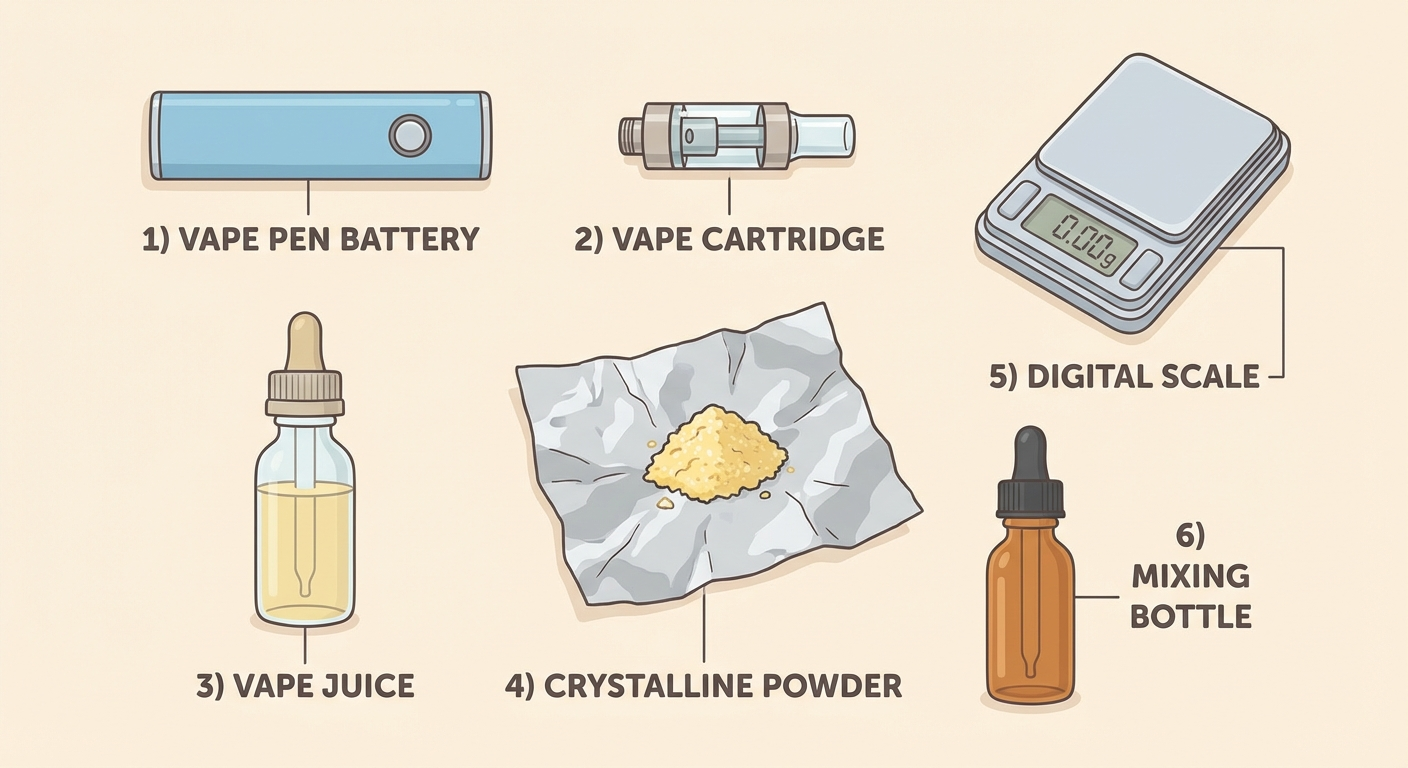
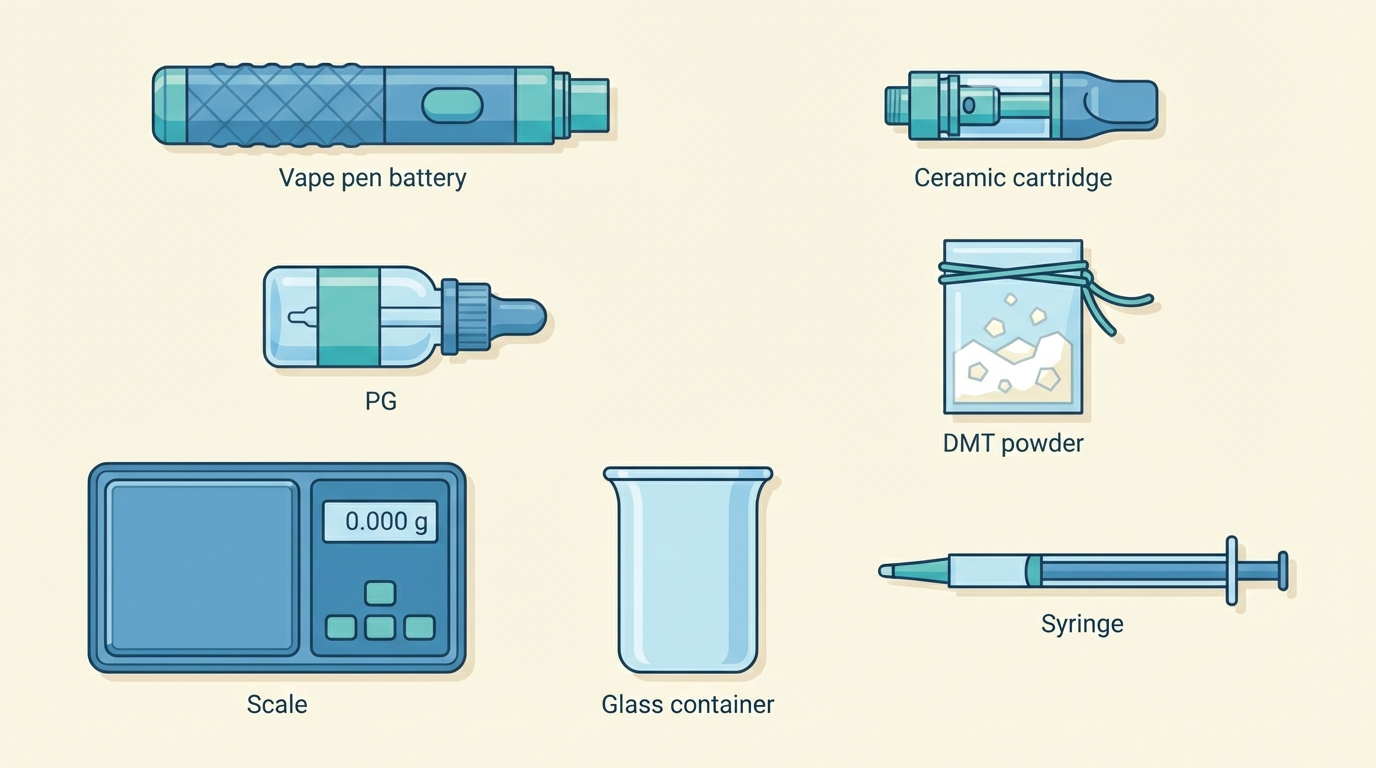
prep

diff --git a/05-preparing-your-dmt-vape-pen.md b/05-preparing-your-dmt-vape-pen.md
@@ -1,33 +1,43 @@
 # Preparing Your DMT Vape Pen
 
-Before you can use DMT to abort cluster headache attacks, you'll need to prepare a vape pen loaded with DMT liquid. This page walks you through everything, from buying the equipment to having a loaded pen ready to use.
+Before you can use DMT to abort cluster headache attacks, you'll need a vape pen loaded with DMT liquid. This page walks you through everything, from buying the equipment to having a loaded pen ready to use.
 
-**Time needed:** About 30 minutes of active work, plus 1 hour of waiting time.
+**Time needed:** About 10 minutes of active work, plus 30 minutes of waiting time for the coil to soak.
 
-**If you've never used a vape before, don't worry.** It's simpler than it looks. You're essentially just dissolving a powder into a liquid and loading it into a small device. 
-If you can cook a dish following a simple recipe, you can do this.
+**If you've never used a vape before, don't worry.** It's simpler than it looks. You're essentially just melting a powder into a liquid and loading it into a small device. If you can cook a dish following a simple recipe, you can do this.
+
+---
+
+## Your options
+
+There are three ways to get a DMT vape pen ready:
+
+- **Option A: Buy a disposable pen or pre-filled cartridge.** These are ready to use out of the box — no mixing required. A disposable pen is a complete device. A pre-filled cartridge screws onto any 510-thread battery (see item 1 below).
+  - Disposable pens and pre-filled cartridges are often made for recreational use, so the DMT concentration may be higher than you need for aborting a cluster headache. When in doubt, start with a very small puff and work up (the dosing chapter explains how).
+
+- **Option B: Battery + cartridge, fill it yourself (recommended if mixing your own).** Buy a small pen-style battery and a separate cartridge. You mix the DMT liquid yourself (explained below) and fill the cartridge.
+
+- **Option C: Complete kit.** Buy an all-in-one device like the [Coolfire Z60](https://www.innokin.com/coolfire-z60), which comes with a battery, a built-in tank, and a coil: everything except the liquid. You fill the tank yourself. These are bulkier but often have more battery life and an easy-to-read screen.
+
+Your device needs to have **variable voltage**.
+This allows you to adjust the temperature to optimally vaporize DMT (see [Aborting Protocol](06-aborting-protocol)).
+
+The rest of this page walks you through Options B and C: mixing the liquid and filling your device. If you bought a disposable pen or pre-filled cartridge (Option A), you can skip ahead to the [Aborting Protocol](06-aborting-protocol).
 
 ---
 
 ## Shopping list
 
-You need six things. Most can be ordered online and arrive within a few days. Everything except the DMT is standard, legal vaping equipment. You don't need to mention DMT when buying. Vape shops (online or in-person), Amazon, and eBay all carry these items.
+You need seven things. Most can be ordered online and arrive within a few days. Everything except the DMT is standard, legal vaping equipment. You don't need to mention DMT when buying. Vape shops (online or in-person), Amazon, and eBay all carry these items.
 
-![Everything you need - the six items laid out and labeled](images/illustration-equipment-flat-lay.jpg)
-*All six items you'll need to buy, at a glance. Details on each one below.*
+![Everything you need - the items laid out and labeled](images/illustration-equipment-flat-lay.jpg)
+*All the items you'll need to buy, at a glance. Details on each one below.*
 
-There are two ways to set up your vape pen:
-
-- **Option A: Battery + cartridge (recommended).** Buy a small pen-style battery and a separate cartridge. You fill the cartridge yourself with DMT liquid (explained below), or buy a cartridge pre-filled with DMT liquid. 
-- **Option B: Complete kit.** Buy an all-in-one device like the [Coolfire Z60](https://www.innokin.com/coolfire-z60), which comes with a battery, a built-in tank, and a coil: everything except the liquid. You fill the tank yourself. These are bulkier but have more battery life and an easy-to-read screen. Some patients prefer these.
-
-In either case, your device needs to have a temperature control. This is explained below.
-
-The rest of this guide works with either option. The instructions below cover Option A in detail; if you're using a complete kit, the mixing steps are identical: you just fill your kit's tank instead of a cartridge.
+The instructions below cover Option B in detail; if you're using a complete kit (Option C), the mixing steps are identical — you just fill your kit's tank instead of a cartridge.
 
 ### 1. Vape pen battery (~$25-50)
 
-*Skip this if you're buying a complete kit (Option B). It comes with a battery.*
+*Skip this if you're buying a complete kit (Option C). It comes with a battery.*
 
 **What it is:** The bottom half of your vape pen: a small rechargeable battery with a button and a charging port.
 
@@ -41,7 +51,7 @@ The rest of this guide works with either option. The instructions below cover Op
 
 ### 2. Ceramic coil cartridge (~$5-15)
 
-*Skip this if you're buying a complete kit (Option B). It comes with a tank and coil.*
+*Skip this if you're buying a complete kit (Option C). It comes with a tank and coil.*
 
 **What it is:** The top half of your vape pen: a small transparent tank that holds the liquid, with a built-in heating element (called a "coil") at the bottom.
 
@@ -50,11 +60,17 @@ The rest of this guide works with either option. The instructions below cover Op
 ![Vape pen anatomy - exploded view showing mouthpiece, cartridge/tank, 510 thread connection, ceramic coil, button, and battery](images/illustration-vape-anatomy.jpg)
 *The parts of a vape pen. The cartridge screws onto the battery via a standard 510 thread connection.*
 
-### 3. Nicotine-free vape juice (~$5-10)
+### 3. Propylene glycol (PG) (~$5-10)
 
-**What it is:** A flavored liquid that you'll use as a base to dissolve the DMT into. It's the same liquid that regular vapers use, but **without nicotine** (the label should say "0mg," meaning zero milligrams of nicotine).
+**What it is:** A clear, odorless liquid used as the base to dissolve the DMT into. It's the same liquid used in vape juice and fog machines — widely available at vape shops and online.
 
-**What to look for:** Vape juice is made from two ingredients: propylene glycol (PG) and vegetable glycerin (VG). Get a bottle labeled **50/50** (meaning half of each). This ratio dissolves DMT well and produces smooth vapor. The flavor doesn't matter; pick whatever you like.
+**What to look for:** Get a bottle of **pure PG** (100% propylene glycol), sometimes labeled "PG base" or "PG carrier liquid." DMT dissolves well in PG but poorly in vegetable glycerin (VG), so pure PG gives you the most reliable results — no recrystallization, no clogs. Vape shops sell PG in small bottles (typically 100-250 ml); you only need a few ml per batch.
+
+> **Can I use PG/VG blend instead?** Yes — a **70/30** or **80/20 PG/VG** blend also works. 
+> * High PG blends are typically hard to find in stores, so you will likely need to buy PG and VG separately and mix them yourself. 
+> * VG makes the vapor smoother but it doesn't dissolve DMT, so it increases the risk of recrystallization at higher concentrations. 
+> * VG increases the vaporization temperature of the DMT liquid (so, you might need to increase your pen voltage). 
+> * If using a ready-made PG/VG blend, make sure it's **nicotine-free** (labeled "0mg").
 
 ### 4. DMT powder (~varies)
 
@@ -66,139 +82,110 @@ The rest of this guide works with either option. The instructions below cover Op
 
 **What to look for:** Any digital scale that reads to 0.01g (sometimes labeled "0.01g precision" or "centigram scale"). They're about the size of a smartphone. Commonly sold as jewelry scales or kitchen precision scales.
 
-### 6. Small mixing bottle (~$1-5)
+### 6. Heat-resistant glass container (~$5-10)
 
-**What it is:** A small empty bottle (about 10 ml) to mix the DMT and vape juice in. A small glass bottle with a dropper (a squeeze-top that lets you dispense liquid drop by drop) works well. 
-You can also use a small empty vape juice bottle.
+**What it is:** A small glass container to mix the DMT and PG in. You'll place this in a hot water bath, so it needs to handle heat.
 
-**What to look for:** It should be sealable (screw cap or dropper top) and heat-resistant. Glass is ideal. The bottle in our photos is a plastic dropper bottle, which also works fine.
+**What to look for:** A small glass beaker (100-250 ml), a Pyrex measuring cup, or a small glass jar all work well. The opening should be wide enough to stir in comfortably. Avoid plastic: glass holds up better to heat and doesn't react with the DMT liquid.
+
+### 7. Syringe (~$1-3)
+
+**What it is:** A small syringe (without a needle) for transferring the finished liquid into your cartridge.
+
+**What to look for:** A 1 ml or 3 ml syringe with a **blunt tip** (no sharp needle). These are sold at pharmacies (ask for an "oral dosing syringe") and online. A blunt-tip syringe makes it easy to fill the narrow cartridge opening without spilling.
 
 ### You'll also need (from around the house)
 
 - A **kettle** or way to heat water
-- A **mug** or small bowl to hold the hot water
-- **Clear tape** or cling film (to waterproof the bottle)
-- A piece of **aluminum foil** (for weighing DMT powder)
-- A piece of **paper** rolled into a funnel (for pouring powder)
-- (Optional) In case you prepare more DMT liquid that can fit your cartridge: A **glass bottle** that seals tightly, for DMT liquid storage.
+- A **bowl, pot or any other container** large enough for the glass container to sit in hot water
+- A piece of **paper** (to make a funnel for pouring DMT powder)
+- A **glass rod or a metal tool** (for stirring)
 
 ---
 
-## Mixing the vape juice (step by step)
+## Mixing the DMT liquid (step by step)
 
-This is the main preparation step: dissolving DMT powder into vape juice so it can be vaporized. We're using the **bottle method**: you mix everything in a small bottle using hot water to help the powder dissolve.
+This is the main preparation step: dissolving DMT powder into PG so it can be vaporized. You'll use a **hot water bath** to melt the DMT, then stir in the PG. The whole mixing process takes about 5-10 minutes.
 
-**The ratio:** We use **1 gram of DMT per 3 milliliters of vape juice** (written as 1:3). This concentration dissolves fully and won't clog your cartridge.
+**The ratio:** We will use **1 gram of DMT per 3 milliliters of PG** (written as 1:3). This gives a concentration of about 333 mg/ml — strong enough to deliver an effective dose in 1-2 puffs, while dissolving reliably without clogging.
 
-> **If you have more or less than 1 gram:** Scale the liquid proportionally. For example, 0.5g of DMT needs 1.5 ml of juice. 2g of DMT needs 6 ml. The ratio is always 1 part DMT to 3 parts liquid by weight.
+> **Other ratios work too.** People use anywhere from 1:1 (very concentrated: stronger per puff, but higher recrystallization risk if using a PG/VG blend) to 1:5 (dilute: more puffs might be needed, but very stable).
 
-### Step 1: Weigh your DMT
+> **If you have more or less than 1 gram:** Scale the PG proportionally. For example, 0.5g of DMT needs 1.5 ml of PG. 2g of DMT needs 6 ml. The ratio is always 1 part DMT to 3 parts PG.
 
-Place a piece of aluminum foil on your scale and zero it out (press the "tare" or "T" button so the scale reads 0.00 with the foil on it). Then carefully add DMT powder until the scale reads **1.00 g** (1 gram).
+### Step 1: Set up the hot water bath
 
-> **Handling tip:** DMT powder won't make you trip through skin contact, but you want the DMT in the bottle, not on your hands. Work in a calm spot without wind drafts. The powder is fine and can become airborne.
+Heat water in your kettle. The water should be very hot but not boiling, around 50-60 degrees Celsius is ideal.
+Think "very hot tap water." 
+Pour it into your bowl or container, deep enough that your glass container can sit in it with the water coming about halfway up the sides.
 
-![Step 1 - DMT powder on a digital scale, showing 1 gram weighed on aluminum foil](images/01-dmt-on-scale.jpg)
-*1 gram of DMT powder on a digital scale. The aluminum foil makes it easy to pour the powder afterward.*
+### Step 2: Weigh your DMT
 
-### Step 2: Measure vape juice into the mixing bottle
+Place your glass container directly on the scale and zero it out (press the "tare" or "T" button so the scale reads 0.00 with the container on it). Then carefully add DMT powder until the scale reads **1.00 g** (1 gram).
 
-You need **3 ml** (3 milliliters) of vape juice. The easiest way to measure this is by weight using your scale: place your mixing bottle on the scale, tare it to zero, then add vape juice until the scale reads **3.00 g** (vape juice has roughly the same density as water, so 3 grams ≈ 3 ml).
+> **Pouring tip:** If the DMT is in a bag or wide container, fold a piece of paper into a funnel to guide the powder into the glass.
 
-![Step 2a - The vape juice bottle, showing "50VG 50PG" and "0mg" (nicotine-free) on the label](images/02-vape-juice-bottle.jpg)
-*Nicotine-free (0mg) vape juice with a 50/50 PG/VG ratio. Any brand with these specs works.*
+![Step 2 - DMT powder weighed in a glass container on a digital scale, showing 1 gram](images/01-dmt-on-scale.jpg)
+*1 gram of DMT powder weighed directly in the glass container. Zeroing the scale with the container on it means the display shows only the weight of the powder.*
 
-![Step 2b - Vape juice measured into a small mixing bottle, about half full](images/03-juice-in-small-bottle.jpg)
-*3 ml of vape juice measured into the small mixing bottle.*
+### Step 3: Melt the DMT
 
-### Step 3: Add the DMT powder to the bottle
+Place the glass container (with the DMT already in it) into the hot water bath. Within a minute or two, the powder will melt into a clear liquid. (DMT freebase melts at a relatively low temperature — hot water is more than enough.)
 
-Roll a small piece of paper into a cone/funnel shape and use it to carefully pour the DMT powder from the foil into the mixing bottle. Go slowly; the powder is fine and you don't want to spill any.
+![Step 3 - Glass container with DMT sitting in a hot water bath](images/03-dmt-melting.jpg)
+*The DMT powder melts into a clear liquid in the hot water bath. This usually takes 1-2 minutes.*
 
-![Step 3 - Using a paper funnel to add DMT powder into the small mixing bottle](images/04-adding-dmt-to-bottle.jpg)
-*A rolled piece of paper makes a simple funnel. Tilt the foil gently to slide the powder in.*
+### Step 4: Add PG and stir
 
-**What to expect:** The powder will sit on top of the liquid or sink to the bottom. It will NOT dissolve on its own: that's what the next steps are for.
+While the glass container is still sitting in the hot water bath, draw up **3 ml** of PG using your syringe and add it to the melted DMT. (If your syringe doesn't have ml markings, you can measure by weight on your scale instead: 3 grams of PG ≈ 3 ml.)
 
-### Step 4: Seal the bottle and shake for 1 minute
+Stir the mixture with a metal tool (such as a spoon) or glass rod until the liquid is a uniform **clear amber/golden color**.
+This usually takes just a minute or two of stirring.
 
-Screw the cap on tightly. Shake the bottle vigorously for about 1 minute.
+![Step 4b - Stirring the mixture in the glass container](images/04-stirring-mixture.jpg)
+*Stir until the liquid is uniformly clear and amber. No cloudiness, no visible specks.*
 
-![Step 4 - The bottle after shaking, showing a cloudy/opaque mixture](images/05-shake-mixture.jpg)
-*After shaking for 1 minute, the mixture will look cloudy and murky like this. That's normal. The DMT hasn't fully dissolved yet.*
-
-**What to look for:** The liquid should be uniformly cloudy.
-
-### Step 5: Waterproof the bottle, then hot water bath
-
-**First**, wrap the bottle (especially the cap/top) with clear tape or cling film. This is critical: if water gets into the mixture, it's ruined.
-
-![Step 5a - The bottle wrapped in clear tape to make it watertight](images/07-taped-bottle.jpg)
-*Wrap the cap and top of the bottle in tape so that no water can seep in during the hot water bath.*
-
-**Then**, heat up water. The water should be very hot but not boiling. 
-Pour the hot water into a mug. Place the sealed, taped bottle into the mug of hot water. Let it sit for **10-15 minutes**.
-
-![Step 5b - The taped bottle sitting in a mug of hot water](images/06-hot-water-bath.jpg)
-*The bottle sits in hot water in a mug. The heat helps the DMT dissolve into the liquid. Make sure the water level doesn't go above the taped seal.*
-
-### Step 6: Remove, shake, and repeat
-
-After 10-15 minutes, take the bottle out of the water. **Shake it vigorously for 1 minute** again. Then:
-
-1. Empty the mug and refill with fresh hot water (again, not boiling)
-2. Put the bottle back in
-3. Wait another 10-15 minutes
-4. Take it out and shake again
-
-**Repeat this cycle 3-4 times total.** Each round dissolves more of the DMT. You'll see the liquid getting clearer with each cycle.
-
-### Step 7: Check your result
-
-After 3-4 hot water cycles, the mixture should be a **clear amber/golden liquid,** ranging from pale gold (like apple juice) to deeper amber (like honey). Hold it up to a light:
-
-- **Clear amber = good to go.** The DMT has fully dissolved.
-- **Cloudy, murky, or specks visible = not ready.** Do another hot water cycle and shake.
-
-![Step 7 - The finished product: a clear amber liquid in the mixing bottle](images/08-finished-product.jpg)
-*Finished: a clear, amber-colored liquid. No cloudiness, no visible specks or crystals. This is ready to load into your cartridge.*
-
-![Liquid quality check - clear amber liquid (good/ready) vs. cloudy liquid with visible specks (not ready)](images/illustration-mixing-quality-check.jpg)
-*Hold your bottle up to a light. Left: clear and amber means it's ready. Right: cloudy with visible particles means you need another hot water cycle.*
-
-> **Why clarity matters:** Any undissolved DMT crystals will clog the tiny holes in your cartridge's coil. A clogged cartridge won't produce vapor, which means it won't work when you need it during an attack.
+If the liquid is cloudy, or if specks visible: stir more, and make sure the water bath is still hot (change the water if needed).
 
 ---
 
 ## Filling the cartridge
 
-Now you need to get the liquid from the mixing bottle into your vape pen's cartridge.
+Now use your syringe to transfer the liquid from the glass container into your cartridge.
 
 1. **Screw the cartridge onto the battery** if you haven't already. This gives you something to hold onto.
 2. **Unscrew the mouthpiece** from the top of the cartridge. It twists off to reveal the tank opening. You'll see a small hole in the very center: that's the airway (where air flows through when you inhale). **Don't put liquid into that center hole.**
-3. **Squeeze or drip the liquid** from your mixing bottle into the tank, aiming for the **sides** of the tank (not the center). Go slowly. Fill until the liquid is about 1 mm below the top rim. Don't overfill, or it will gurgle and spit when you use it.
+3. **Draw up the liquid** from the glass container with your syringe. Slowly squeeze it into the tank, aiming for the **sides** of the tank (not the center hole). Fill until the liquid is about 1 mm below the top rim. Don't overfill, or it will gurgle and spit when you use it.
 4. **Screw the mouthpiece back on.**
 5. **Stand the pen upright and wait 30 minutes before using.** This gives the ceramic coil time to soak up (or "wick") the liquid. If you fire the coil while it's still dry, you'll permanently burn it and need a new cartridge.
-6. **If you made more than can fill your cartridge**: that's totally fine! You can store the remainder in a glass bottle (see storing section just below).
+6. **If you made more liquid than fits in your cartridge**: store the rest in a sealed glass bottle (see storage section just below).
 
 ---
 
 ## Storage and troubleshooting
 
-### Storing your pen
+### Storing DMT powder
 
-- Ideally store your loaded pen upright, to make sure the coil stays soaked with liquid
-- Avoid cold environments. A cold car, basement, or garage can cause the DMT to turn back into crystals inside the liquid
+If you have DMT powder you're not using right away, store it in its **freebase (powder) form** in a small airtight glass container in the **freezer**. DMT slowly degrades when exposed to air and light (it oxidizes), but keeping it sealed and frozen preserves it for a long time.
+
+### Storing mixed DMT liquid
+
+If you've mixed more liquid than fits in your cartridge, store the extra in a **sealed glass bottle**. A freezer is ideal for long-term storage, but room temperature works too — the liquid stays good for several months either way. If you notice a significant change in color or smell, make a fresh batch.
+
+> **Note:** If you store the liquid in the freezer, the DMT will crystallize. This is normal and easy to fix — see "If the liquid turns cloudy" below.
+
+### Storing your loaded pen
+
+- Store your loaded pen **upright**, so the coil stays soaked with liquid
 - A bedside drawer or medicine cabinet is fine
 - **Keep it out of reach of children and pets.** The loaded pen looks identical to a regular nicotine vape. Consider labeling it clearly (e.g., a piece of tape marked "DMT") so nobody mistakes it for an ordinary vape
-- The mixed liquid stays good for **several months** at room temperature. If you notice a significant change in color or smell, make a fresh batch
 
 ### If the liquid turns cloudy or crystallizes
 
-This can happen if the pen gets cold, and it's completely normal. The DMT has just turned back into tiny solid crystals. **Don't throw it away.**
+This can happen if the pen or bottle gets cold, and it's completely normal. The DMT has just turned back into tiny solid crystals. **Don't throw it away.**
 
 **To fix it:**
-1. Put the cartridge into a small waterproof **zip-lock bag** (to protect it from water)
+1. Put the cartridge (or bottle) into a small waterproof **zip-lock bag** (to protect it from water)
 2. Submerge the bag in a cup of **hot water** for about 5 minutes
 3. Take it out and give it a shake
 4. The liquid should turn clear again. It's ready to use
@@ -211,10 +198,6 @@ Sometimes DMT re-crystallizes right at the mouthpiece opening, blocking airflow.
 2. If that doesn't work, gently poke a **toothpick** or thin pin into the mouthpiece opening to clear the blockage
 3. You can also try taking a few short, firm puffs without pressing the button. The suction can loosen it
 
-### If you taste burning
-
-Turn the voltage down. A burnt taste means the temperature is too high and the DMT is being destroyed rather than vaporized. You want smooth, clean-tasting vapor.
-
 ---
 
 ## Quick reference card
@@ -226,22 +209,23 @@ Turn the voltage down. A burnt taste means the temperature is too high and the D
 |---|---|---|
 | Vape pen battery | "Variable voltage, 510 thread battery" (or complete kit) | $25-50 |
 | Cartridge | "510 thread ceramic coil cartridge" (skip if using kit) | $5-15 |
-| Vape juice | "50/50 nicotine-free vape juice" | $5-10 |
-| DMT powder | Pure freebase powder/crystal form | $80–$250 per gram. |
+| Propylene glycol (PG) | "Pure PG" or "PG base" | $5-10 |
+| DMT powder | Pure freebase powder/crystal form | varies |
 | Digital scale | Reads to 0.01 grams | $10-20 |
-| Small mixing bottle | about 10 ml, sealable, temperature-resistant | $1-5 |
+| Glass container | Small beaker, Pyrex cup, or glass jar (heat-resistant) | $5-10 |
+| Syringe | 1-3 ml, blunt tip preferred | $1-3 |
 
-### Mixing steps (1:3 ratio = 1g DMT per 3ml juice)
-1. **Weigh** 1g DMT on scale
-2. **Measure** 3ml vape juice into small bottle (3g by weight)
-3. **Add** DMT powder to bottle (paper funnel helps)
-4. **Seal and shake** vigorously for 1 minute
-5. **Tape** bottle, place in mug of hot (not boiling) water for 10-15 min
-6. **Remove and shake** 1 minute. Repeat hot water cycle 3-4 times total
-7. **Check:** should be clear amber, no cloudiness
-8. **Fill** cartridge, avoiding center tube
-9. **Wait** 30 min before first use (let coil soak)
+### Mixing steps (1:3 ratio = 1g DMT per 3ml PG)
+1. **Heat** water, pour into a bowl (hot, not boiling)
+2. **Weigh** 1g DMT directly in the glass container (tare the scale first)
+3. **Place** glass container in hot water bath — DMT melts in 1-2 min
+4. **Add** 3ml PG (by syringe or 3g by weight)
+5. **Stir** until clear amber, no cloudiness
+6. **Fill** cartridge with syringe, avoiding center hole
+7. **Wait** 30 min before first use (let coil soak)
 
 ### Storage
-- Upright, room temperature
-- If it crystallizes → zip-lock bag + hot water for 5 min
+- **DMT powder:** in airtight glass container, freezer
+- **Mixed liquid** (to load pen later): in sealed glass bottle or in spare cartridge, freezer
+- **Loaded pen:** upright, room temperature
+- If liquid crystallizes → zip-lock bag + hot water for 5 min
